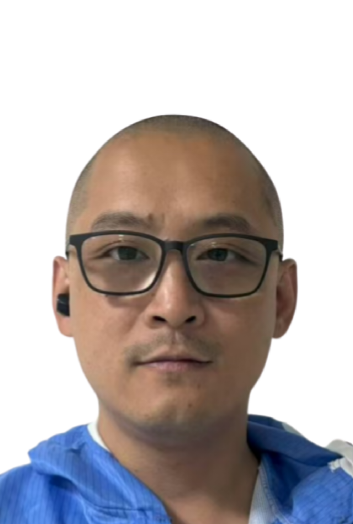
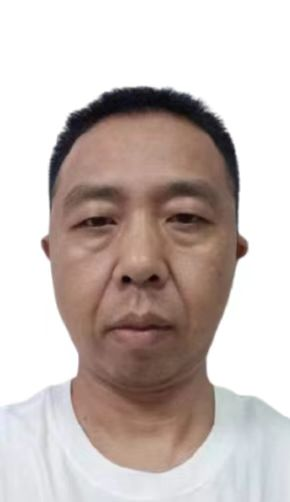
1111

diff --git a/health.html b/health.html
@@ -171,11 +171,11 @@
                                 </tr>
                                   <!-- 海07492100691  44970117  前部分固定形式，后面可变-->
                                 <tr>
-                                  <td style="font-size: 10px;font-family: 宋体;font-weight: bold;word-break: break-all;">编号:海0749210069110294218
+                                  <td style="font-size: 10px;font-family: 宋体;font-weight: bold;word-break: break-all;">编号:海0749210069103277419
                                   </td>
                                 </tr>
                                 <tr>
-                                  <td style="font-size: 10px;font-family: 宋体;font-weight: bold;">日期:2025-07-25</td>
+                                  <td style="font-size: 10px;font-family: 宋体;font-weight: bold;">日期:2025-08-25</td>
                                 </tr>
                               </tbody>
                             </table>
@@ -191,7 +191,7 @@
                                       <tbody>
                                         <tr height="27">
                                           <td><span
-                                              style="font-family:宋体; font-size:26px;color: #000000;FONT-WEIGHT: bold;">王一臣<span
+                                              style="font-family:宋体; font-size:26px;color: #000000;FONT-WEIGHT: bold;">范会光<span
                                                 style="font-family:宋体; font-size:16px;color: #000000;FONT-WEIGHT: bold;">（男）</span>
                                             </span></td>
                                         </tr>
@@ -201,7 +201,7 @@
                                         </tr>
                                         <tr>
                                           <td><span
-                                              style="font-family:宋体; font-size:11px;color: #000000;FONT-WEIGHT: bold;">身份证号:3706831985********</span>
+                                              style="font-family:宋体; font-size:11px;color: #000000;FONT-WEIGHT: bold;">身份证号:3706861985********</span>
                                           </td>
                                         </tr>
                                       </tbody>
@@ -225,43 +225,43 @@
                                                 <tr align="center">
                                                   <td align="left">细菌性痢疾</td>
                                                   <td>合格</td>
-                                                  <td>2025年07月24日</td>
+                                                  <td>2025年08月24日</td>
                                                 </tr>
 
                                                 <tr align="center">
                                                   <td align="left">伤寒和副伤寒</td>
                                                   <td>合格</td>
-                                                  <td>2025年07月24日</td>
+                                                  <td>2025年08月24日</td>
                                                 </tr>
 
                                                 <tr align="center">
                                                   <td align="left">病毒性肝炎（甲戊肝）</td>
                                                   <td>合格</td>
-                                                  <td>2025年07月24日</td>
+                                                  <td>2025年08月24日</td>
                                                 </tr>
 
                                                 <tr align="center">
                                                   <td align="left">活动性肺结核</td>
                                                   <td>合格</td>
-                                                  <td>2025年07月24日</td>
+                                                  <td>2025年08月24日</td>
                                                 </tr>
 
                                                 <tr align="center">
                                                   <td align="left">化脓性或渗出性皮肤病</td>
                                                   <td>合格</td>
-                                                  <td>2025年07月24日</td>
+                                                  <td>2025年08月24日</td>
                                                 </tr>
 
                                                 <tr align="center">
                                                   <td align="left">霍乱</td>
                                                   <td>合格</td>
-                                                  <td>2025年07月24日</td>
+                                                  <td>2025年08月24日</td>
                                                 </tr>
 
                                                 <tr align="center">
                                                   <td align="left">阿米巴性疾病</td>
                                                   <td>合格</td>
-                                                  <td>2025年07月24日</td>
+                                                  <td>2025年08月24日</td>
                                                 </tr>
 
                                               </tbody>
@@ -308,7 +308,7 @@
                           <td>
                             <font style="FONT-SIZE: 12px;">姓　名：</font>
                           </td>
-                          <td><span style="font-family:黑体; font-size:14px;color: #000000;FONT-WEIGHT: bold;"> 王一臣</span>
+                          <td><span style="font-family:黑体; font-size:14px;color: #000000;FONT-WEIGHT: bold;"> 范会光</span>
                           </td>
                         </tr>
                         <tr>
@@ -324,7 +324,7 @@
                           </td>
                           <td width="110"><span
                               style="font-family:黑体; font-size:14px;color: #000000;FONT-WEIGHT: bold;">
-                              2025年07月24日</span></td>
+                              2025年08月24日</span></td>
                         </tr>
                         <tr>
                           <td>
@@ -403,7 +403,7 @@
               姓名
             </td>
             <td colspan="3">
-              &nbsp;王一臣&nbsp;
+              &nbsp;范会光&nbsp;
             </td>
             <td colspan="2">
               性别
@@ -417,7 +417,7 @@
               身份证号码
             </td>
             <td colspan="8" style="border-right: 1px solid black;">
-              &nbsp;3706831985********&nbsp;
+              &nbsp;3706861985********&nbsp;
             </td>
           </tr>
           <tr>
@@ -467,7 +467,7 @@
               &nbsp;崔亚欣&nbsp;
             </td>
             <td style="border-right: 1px solid black;">
-              &nbsp;2025年07月24日&nbsp;
+              &nbsp;2025年08月24日&nbsp;
             </td>
           </tr>
           <tr>
@@ -487,7 +487,7 @@
               &nbsp;崔亚欣&nbsp;
             </td>
             <td style="border-right: 1px solid black;">
-              &nbsp;2025年07月24日&nbsp;
+              &nbsp;2025年08月24日&nbsp;
             </td>
           </tr>
           <tr style="padding-top: 10px">
@@ -508,7 +508,7 @@
               &nbsp;王梦丽&nbsp;
             </td>
             <td style="border-right: 1px solid black;">
-              &nbsp;2025年07月24日&nbsp;
+              &nbsp;2025年08月24日&nbsp;
             </td>
           </tr>
           <tr>
@@ -528,7 +528,7 @@
               &nbsp;宋新春&nbsp;
             </td>
             <td style="border-right: 1px solid black;">
-              &nbsp;2025年07月24日&nbsp;
+              &nbsp;2025年08月24日&nbsp;
             </td>
           </tr>
           <tr>
@@ -548,7 +548,7 @@
               &nbsp;刘新武&nbsp;
             </td>
             <td style="border-right: 1px solid black;">
-              &nbsp;2025年07月24日&nbsp;
+              &nbsp;2025年08月24日&nbsp;
             </td>
           </tr>
           <tr style="padding-top: 10px">
@@ -589,7 +589,7 @@
               &nbsp;崔亚欣&nbsp;
             </td>
             <td style="border-right: 1px solid black;">
-              &nbsp;2025年07月24日&nbsp;
+              &nbsp;2025年08月24日&nbsp;
             </td>
           </tr>
           <tr>
@@ -609,7 +609,7 @@
               &nbsp;崔亚欣&nbsp;
             </td>
             <td style="border-right: 1px solid black;">
-              &nbsp;2025年07月24日&nbsp;
+              &nbsp;2025年08月24日&nbsp;
             </td>
           </tr>
           <tr>
@@ -674,7 +674,7 @@
             <td>（盖章有效）</td>
             <td width="280px"></td>
             <td>日期：</td>
-            <td>&nbsp;2025年07月24日</td>
+            <td>&nbsp;2025年08月24日</td>
           </tr>
           <tr height="50px">
             <td colspan="4">&nbsp;</td>
@@ -755,7 +755,7 @@
             </tr>
             <tr>
               <td style="font-size:15px;text-align: right">
-                报告日期：2025年07月24日&nbsp;&nbsp;&nbsp;&nbsp;&nbsp;&nbsp;&nbsp;&nbsp;&nbsp;&nbsp;&nbsp;&nbsp;</td>
+                报告日期：2025年08月24日&nbsp;&nbsp;&nbsp;&nbsp;&nbsp;&nbsp;&nbsp;&nbsp;&nbsp;&nbsp;&nbsp;&nbsp;</td>
             </tr>
           </tbody>
         </table>
@@ -774,7 +774,7 @@
               <td>（盖章有效）</td>
               <td width="280px"></td>
               <td>日期：</td>
-              <td>&nbsp;2025年07月24日</td>
+              <td>&nbsp;2025年08月24日</td>
             </tr>
             <tr height="50px">
               <td colspan="4">&nbsp;</td>
@@ -832,7 +832,7 @@
 
             <tr>
               <td style="font-size:15px;text-align: right" colspan="2">
-                报告日期：2025年07月24日&nbsp;&nbsp;&nbsp;&nbsp;&nbsp;&nbsp;&nbsp;&nbsp;&nbsp;&nbsp;&nbsp;&nbsp;</td>
+                报告日期：2025年08月24日&nbsp;&nbsp;&nbsp;&nbsp;&nbsp;&nbsp;&nbsp;&nbsp;&nbsp;&nbsp;&nbsp;&nbsp;</td>
             </tr>
 
           </tbody>
@@ -852,7 +852,7 @@
               <td>（盖章有效）</td>
               <td width="280px"></td>
               <td>日期：</td>
-              <td>&nbsp;2025年07月24日</td>
+              <td>&nbsp;2025年08月24日</td>
             </tr>
             <tr height="50px">
               <td colspan="4">&nbsp;</td>
